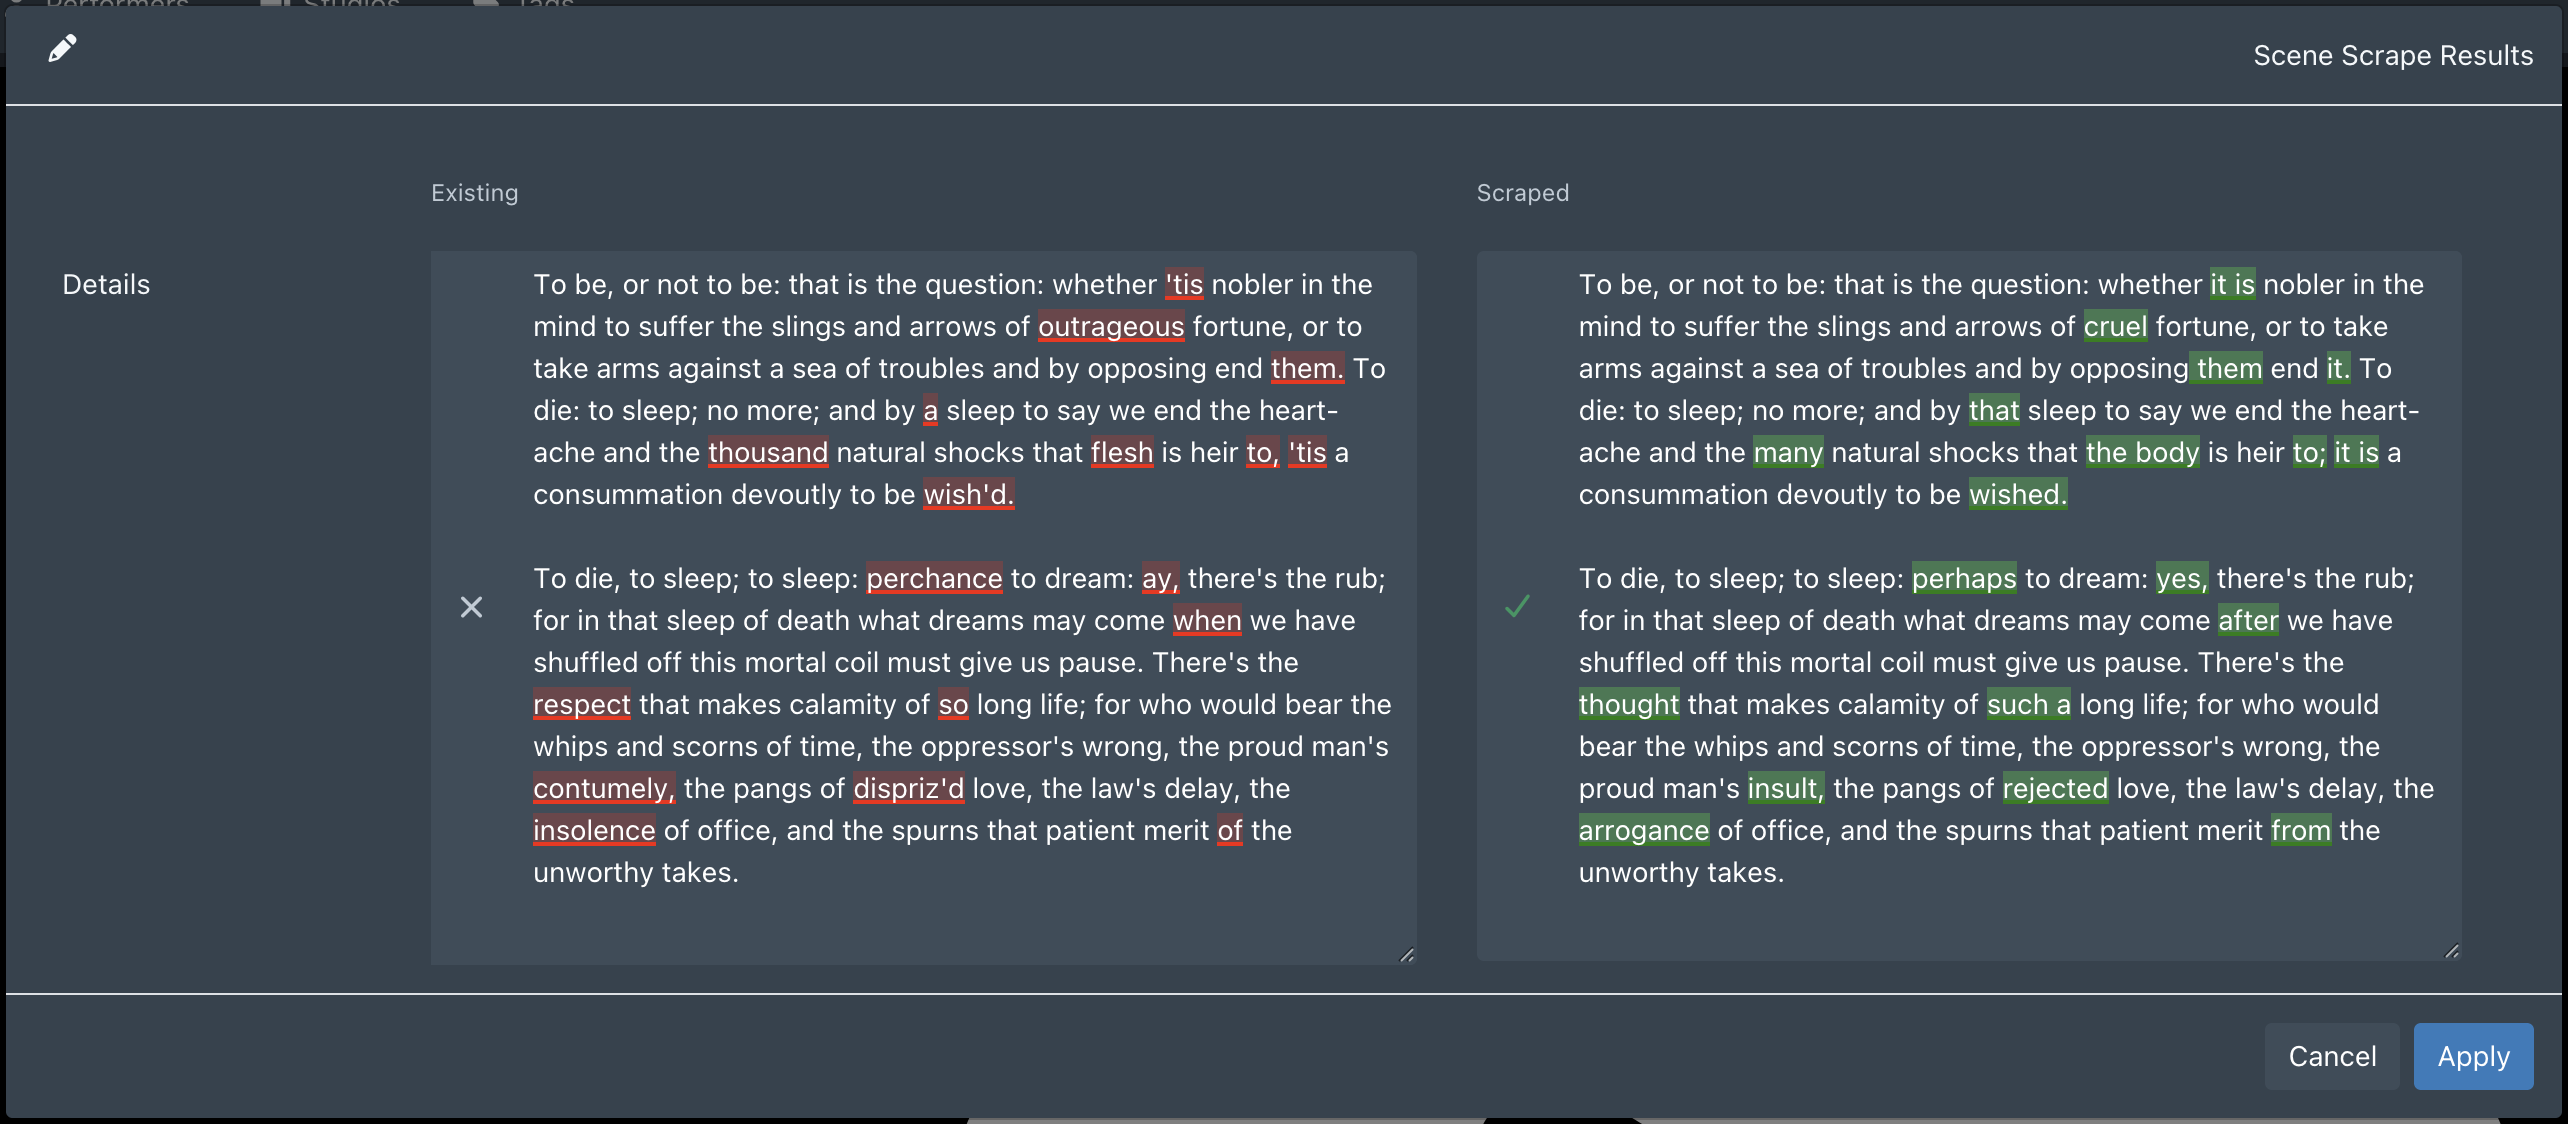
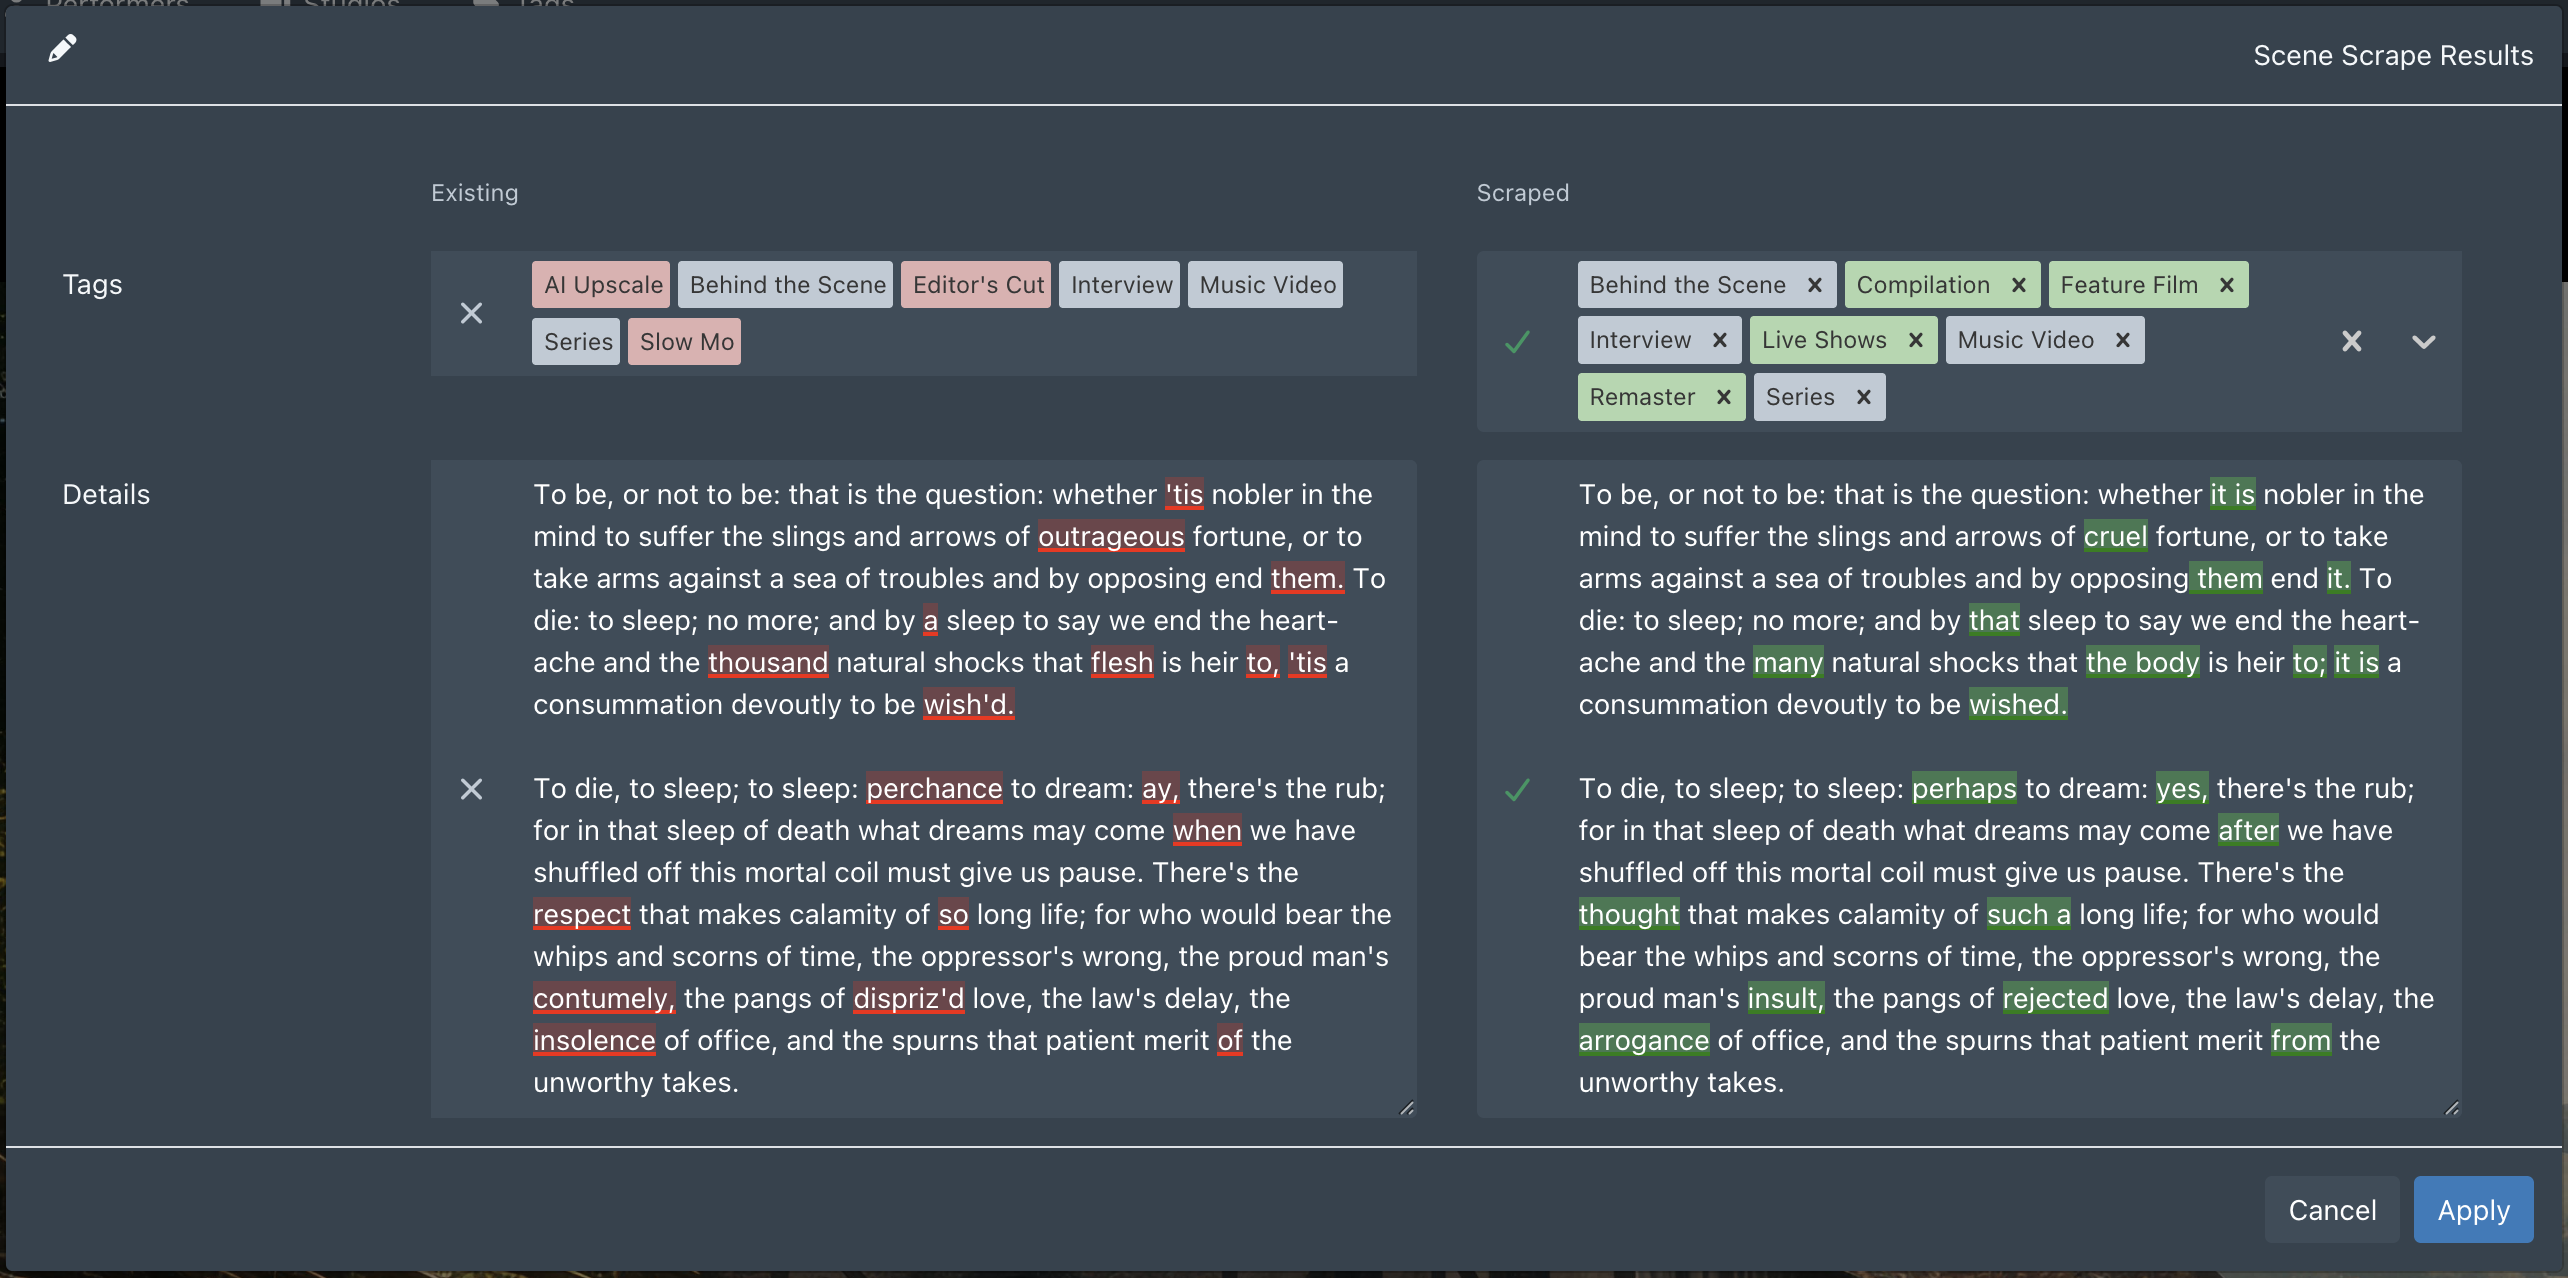
release: ScrapeDiff v1.1.0 (#2)

diff --git a/plugins/ScrapeDiff/ScrapeDiff.js b/plugins/ScrapeDiff/ScrapeDiff.js
@@ -1,7 +1,7 @@
 (() => {
   "use strict";
 
-  console.log("[ScrapeDiff] loaded");
+  console.log("[ScrapeDiff] v1.1.0 loaded");
 
   // ── Constants ───────────────────────────────────────────────────────────────
 
@@ -10,25 +10,31 @@
 
   // ── Diff computation ────────────────────────────────────────────────────────
 
+  function tokenize(str) {
+    return str.split(/(\s+)/);
+  }
+
   function wordDiff(oldText, newText) {
-    const tokenize = (str) => str.split(/(\s+)/);
     const a = tokenize(oldText), b = tokenize(newText);
     const m = a.length, n = b.length;
     const dp = Array.from({ length: m + 1 }, () => new Int32Array(n + 1));
     for (let i = 1; i <= m; i++)
       for (let j = 1; j <= n; j++)
         dp[i][j] = a[i - 1] === b[j - 1] ? dp[i - 1][j - 1] + 1 : Math.max(dp[i - 1][j], dp[i][j - 1]);
+
+    // Traceback with push+reverse avoids O(n²) cost of repeated unshift
     const ops = [];
     let i = m, j = n;
     while (i > 0 || j > 0) {
       if (i > 0 && j > 0 && a[i - 1] === b[j - 1]) {
-        ops.unshift({ text: a[i - 1], type: "same" }); i--; j--;
+        ops.push({ text: a[i - 1], type: "same" }); i--; j--;
       } else if (j > 0 && (i === 0 || dp[i][j - 1] >= dp[i - 1][j])) {
-        ops.unshift({ text: b[j - 1], type: "added" }); j--;
+        ops.push({ text: b[j - 1], type: "added" }); j--;
       } else {
-        ops.unshift({ text: a[i - 1], type: "removed" }); i--;
+        ops.push({ text: a[i - 1], type: "removed" }); i--;
       }
     }
+    ops.reverse();
     return ops;
   }
 
@@ -67,7 +73,6 @@
     ta.parentNode.insertBefore(wrapper, ta);
     wrapper.appendChild(ta);
 
-    // Keep the text cursor visible on the editable (scraped) side.
     if (side === "new") ta.style.caretColor = cs.color;
 
     return wrapper;
@@ -75,14 +80,15 @@
 
   // ── Overlay DOM ─────────────────────────────────────────────────────────────
 
-  function createOverlayDOM(ta) {
+  function createOverlay(ta) {
     // font-kerning must be disabled on the textarea before measuring clientWidth,
     // so the content div's width is calculated from the same kerning state.
     ta.style.fontKerning = "none";
 
     const cs = window.getComputedStyle(ta);
+    const padLeft  = parseFloat(cs.paddingLeft);
+    const padRight = parseFloat(cs.paddingRight);
 
-    // Clip div: constrains diff highlights to the textarea's visual boundary.
     // clip-path instead of overflow:hidden to avoid creating a scroll container.
     const clip = document.createElement("div");
     clip.className = "scrape-diff-clip";
@@ -94,13 +100,11 @@
       `clip-path:inset(0 round ${cs.borderTopLeftRadius} ${cs.borderTopRightRadius} ${cs.borderBottomRightRadius} ${cs.borderBottomLeftRadius})`,
     ].join(";");
 
-    // Content div: mirrors textarea typography so tokens land on the same pixels.
     const content = document.createElement("div");
-    const contentWidth = ta.clientWidth - parseFloat(cs.paddingLeft) - parseFloat(cs.paddingRight);
     content.className = "scrape-diff-content";
-    content.style.top = cs.paddingTop;
-    content.style.left = cs.paddingLeft;
-    content.style.width = `${contentWidth}px`;
+    content.style.top   = cs.paddingTop;
+    content.style.left  = cs.paddingLeft;
+    content.style.width = `${ta.clientWidth - padLeft - padRight}px`;
     for (const prop of [
       "fontFamily", "fontSize", "fontWeight", "fontStyle",
       "lineHeight", "letterSpacing", "wordSpacing", "tabSize", "wordBreak",
@@ -109,79 +113,97 @@
     }
 
     clip.appendChild(content);
-    return { clip, content };
+    return { clip, content, totalPadding: padLeft + padRight };
   }
 
-  function syncContentWidth(ta, content) {
-    const cs = window.getComputedStyle(ta);
-    const pureWidth = ta.clientWidth - parseFloat(cs.paddingLeft) - parseFloat(cs.paddingRight);
-    content.style.width = `${pureWidth}px`;
+  function syncContentWidth(ta, content, totalPadding) {
+    content.style.width = `${ta.clientWidth - totalPadding}px`;
   }
 
-  // ── Orchestration ───────────────────────────────────────────────────────────
+  // ── Tag diff ────────────────────────────────────────────────────────────────
 
-  let pollId = null;
+  function getNamedChips(col) {
+    return [...col.querySelectorAll(".react-select__multi-value")]
+      .map((chip) => ({
+        chip,
+        name: chip.querySelector(".react-select__multi-value__label span")?.textContent.trim() || "",
+      }))
+      .filter((e) => e.name);
+  }
 
-  function trySetup() {
-    // Locate targets — bail out if modal or required fields are absent
-    const modal = document.querySelector(".modal-content");
-    if (!modal) return false;
+  function applyTagDiff(existingCol, scrapedCol) {
+    const existingEntries = getNamedChips(existingCol);
+    const scrapedEntries  = getNamedChips(scrapedCol);
+    const existingNames   = new Set(existingEntries.map((e) => e.name));
+    const scrapedNames    = new Set(scrapedEntries.map((e) => e.name));
 
-    const detailsField = modal.querySelector("[data-field='details'], [data-field='synopsis']");
-    if (!detailsField) return false;
+    for (const { chip, name } of existingEntries)
+      chip.classList.toggle("sd-tag-removed", !scrapedNames.has(name));
+    for (const { chip, name } of scrapedEntries)
+      chip.classList.toggle("sd-tag-added", !existingNames.has(name));
+  }
 
-    const cols = [...detailsField.querySelectorAll("div.col-lg-6")];
-    if (cols.length < 2) return false;
+  function setupTagDiff(tagsField, cleanupFns) {
+    const cols = [...tagsField.querySelectorAll("div.col-lg-9 > div.row > div.col-lg-6")];
+    if (cols.length < 2) return;
+
+    const [existingCol, scrapedCol] = cols;
+
+    applyTagDiff(existingCol, scrapedCol);
+
+    // Re-apply whenever either side changes (late chip render or user removes a tag)
+    const mo = new MutationObserver(() => applyTagDiff(existingCol, scrapedCol));
+    mo.observe(existingCol, { childList: true, subtree: true });
+    mo.observe(scrapedCol,  { childList: true, subtree: true });
+    cleanupFns.push(() => mo.disconnect());
+  }
+
+  // ── Text diff ───────────────────────────────────────────────────────────────
+
+  function setupTextDiff(detailsField, cleanupFns) {
+    const cols = [...detailsField.querySelectorAll("div.col-lg-9 > div.row > div.col-lg-6")];
+    if (cols.length < 2) return;
 
     const existingTA = cols[0].querySelector("textarea");
-    const scrapedTA = cols[1].querySelector("textarea");
-    if (!existingTA || !scrapedTA || existingTA.dataset.diffInitialized) return false;
+    const scrapedTA  = cols[1].querySelector("textarea");
+    if (!existingTA || !scrapedTA) return;
 
-    existingTA.dataset.diffInitialized = "true";
-    scrapedTA.dataset.diffInitialized = "true";
-
-    // Mount: wrap textareas, create overlays, attach to wrappers
     const oldWrapper = setupTextarea(existingTA, "old");
     const newWrapper = setupTextarea(scrapedTA, "new");
 
-    const { clip: oldClip, content: oldContent } = createOverlayDOM(existingTA);
-    const { clip: newClip, content: newContent } = createOverlayDOM(scrapedTA);
+    const { clip: oldClip, content: oldContent, totalPadding: oldPad } = createOverlay(existingTA);
+    const { clip: newClip, content: newContent, totalPadding: newPad } = createOverlay(scrapedTA);
     oldWrapper.appendChild(oldClip);
     newWrapper.appendChild(newClip);
 
-    // Initial render: sync widths then render first diff
-    syncContentWidth(existingTA, oldContent);
-    syncContentWidth(scrapedTA, newContent);
+    syncContentWidth(existingTA, oldContent, oldPad);
+    syncContentWidth(scrapedTA,  newContent, newPad);
 
-    function update() {
+    const update = () => {
       if (!existingTA.value) return;
       const tokens = wordDiff(existingTA.value, scrapedTA.value);
       renderDiff(oldContent, tokens, "old");
       renderDiff(newContent, tokens, "new");
-    }
+    };
     update();
 
-    // Input: re-render diff after user stops typing
     let debounceId = null;
     const onInput = () => {
       clearTimeout(debounceId);
       debounceId = setTimeout(update, DEBOUNCE_MS);
     };
 
-    // Scroll: sync overlay position via transform (clip-path ≠ scroll container)
     const onExistingScroll = () => { oldContent.style.transform = `translateY(-${existingTA.scrollTop}px)`; };
-    const onScrapedScroll = () => { newContent.style.transform = `translateY(-${scrapedTA.scrollTop}px)`; };
+    const onScrapedScroll  = () => { newContent.style.transform = `translateY(-${scrapedTA.scrollTop}px)`; };
 
     scrapedTA.addEventListener("input", onInput);
     existingTA.addEventListener("scroll", onExistingScroll);
     scrapedTA.addEventListener("scroll", onScrapedScroll);
 
-    // Resize: sync overlay widths and mirror height between the two panes
     let isSyncing = false;
     const ro = new ResizeObserver((entries) => {
-      syncContentWidth(existingTA, oldContent);
-      syncContentWidth(scrapedTA, newContent);
-
+      syncContentWidth(existingTA, oldContent, oldPad);
+      syncContentWidth(scrapedTA,  newContent, newPad);
       if (!isSyncing) {
         isSyncing = true;
         for (const entry of entries) {
@@ -194,17 +216,38 @@
     ro.observe(existingTA);
     ro.observe(scrapedTA);
 
-    // Cleanup: disconnect observers and remove listeners when modal closes
-    function cleanup() {
+    cleanupFns.push(() => {
       ro.disconnect();
       clearTimeout(debounceId);
       scrapedTA.removeEventListener("input", onInput);
       existingTA.removeEventListener("scroll", onExistingScroll);
       scrapedTA.removeEventListener("scroll", onScrapedScroll);
-    }
+    });
+  }
+
+  // ── Orchestration ───────────────────────────────────────────────────────────
+
+  let pollId = null;
+
+  function trySetup() {
+    const modal = document.querySelector(".modal-content");
+    if (!modal) return false;
+
+    const detailsField = modal.querySelector("[data-field='details'], [data-field='synopsis']");
+    const tagsField    = modal.querySelector("[data-field='tags']");
+    if (!detailsField && !tagsField) return false;
+
+    // Already initialized — signal success so polling stops
+    if (modal.dataset.scrapeDiffInitialized) return true;
+    modal.dataset.scrapeDiffInitialized = "true";
+
+    const cleanupFns = [];
+    if (detailsField) setupTextDiff(detailsField, cleanupFns);
+    if (tagsField)    setupTagDiff(tagsField, cleanupFns);
+
     const closeObserver = new MutationObserver(() => {
       if (!modal.isConnected) {
-        cleanup();
+        cleanupFns.forEach((fn) => fn());
         closeObserver.disconnect();
       }
     });

diff --git a/plugins/ScrapeDiff/ScrapeDiff.css b/plugins/ScrapeDiff/ScrapeDiff.css
@@ -37,3 +37,11 @@
   background-color: rgba(0, 255, 0, 0.25);
   box-shadow: inset 0 -2px 0 green;
 }
+
+.react-select__multi-value.sd-tag-removed {
+  background-color: hsl(0, 45%, 79%) !important;
+}
+
+.react-select__multi-value.sd-tag-added {
+  background-color: hsl(120, 35%, 77%) !important;
+}

diff --git a/plugins/ScrapeDiff/README.md b/plugins/ScrapeDiff/README.md
@@ -1,13 +1,14 @@
 # ScrapeDiff
 
-Renders a live word-level diff overlay on the Details/Synopsis field in Stash's scrape result modals, making it immediately clear what changed between your existing data and the scraped result.
+Highlights what changed between your existing data and the scraped result in Stash scrape result modals — word-level diff on Details/Synopsis text, and added/removed color coding on tags.
 
 ![ScrapeDiff in Scene scrape modal](assets/scene-scrape.png)
 
 ## Features
 
-- Word-level diff with red (removed) and green (added) highlights
-- Targets the Details/Synopsis field across Scene, Gallery, Performer, and Group scrape modals — the one field long enough to actually need a diff
+- Word-level diff with red (removed) and green (added) highlights on Details/Synopsis
+- Tag diff highlighting — removed tags turn red, added tags turn green
+- Works across Scene, Gallery, Performer, and Group scrape modals
 - Synchronized height resize — drag either textarea and the other follows
 - Scroll-synced overlays
 - Debounced live update as you edit the scraped field
@@ -15,13 +16,25 @@ Renders a live word-level diff overlay on the Details/Synopsis field in Stash's 
 
 ## Installation
 
-1. Download or clone this repository and copy the `ScrapeDiff` folder into your Stash plugins directory (default: `~/.stash/plugins/`)
-2. Go to **Settings → Plugins** and click **Reload Plugins**
-3. Enable **ScrapeDiff**
+### Via Stash (recommended)
+
+1. Go to **Settings → Plugins → Available Plugins**
+2. Click **Add Source** and fill in:
+   - **Name:** anything you like (e.g. `rchrdcho`)
+   - **Source URL:** `https://rchrdcho.github.io/StashPlugins/main/index.yml`
+3. Find **ScrapeDiff** in the list, check the box, and click **Install**
+4. Click **Reload Plugins**
+
+### Manual install
+
+1. Clone this repository, or download it as a ZIP and unzip it
+2. Copy the `ScrapeDiff` folder into your Stash plugins directory (default: `~/.stash/plugins/`)
+3. Go to **Settings → Plugins** and click **Reload Plugins**
+4. Enable **ScrapeDiff**
 
 ## Usage
 
-Open any scrape result modal. The Details or Synopsis field will automatically display a diff between the existing value and the scraped value.
+Open any scrape result modal. The Details/Synopsis field will display a word-level diff, and the Tags field will highlight which tags are new or removed.
 
 No configuration required.
 
